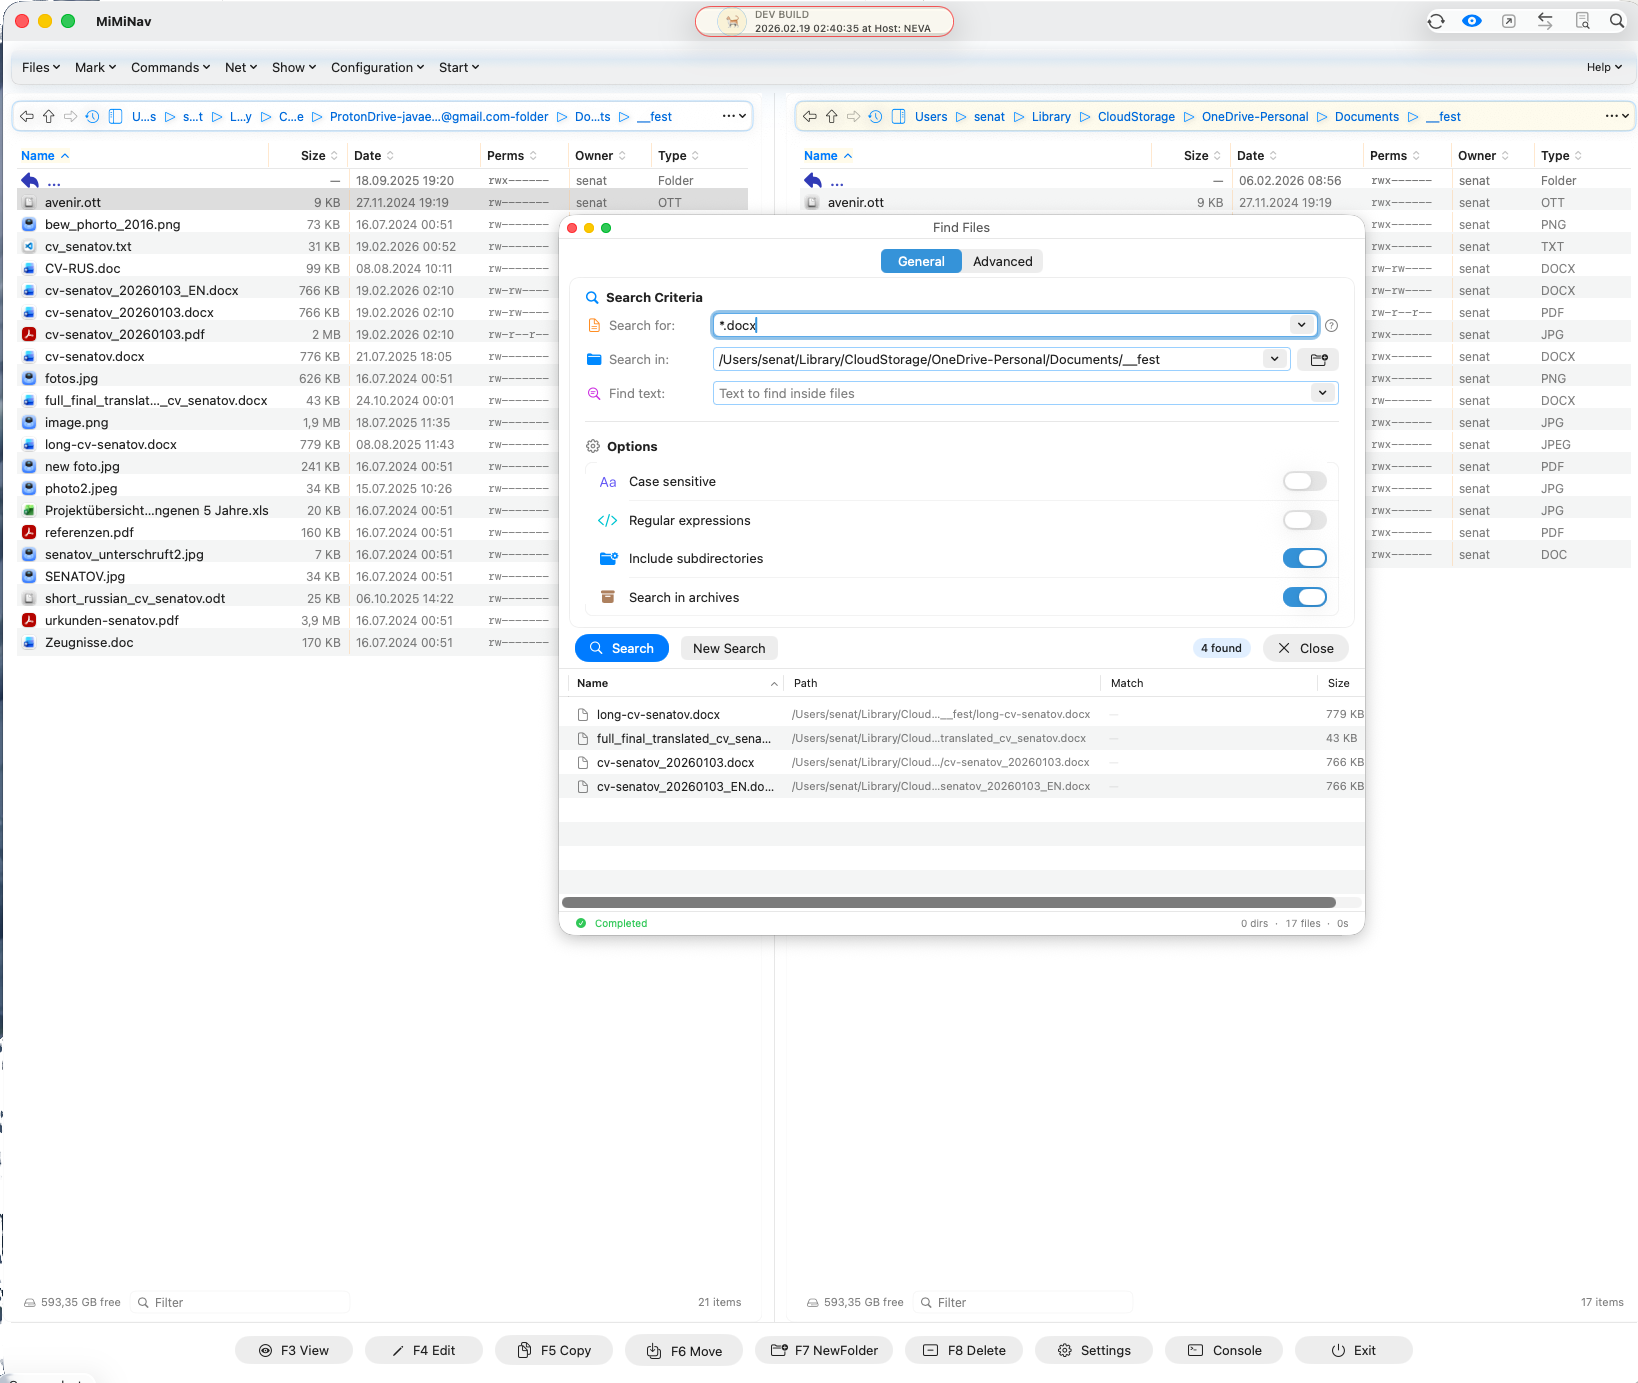
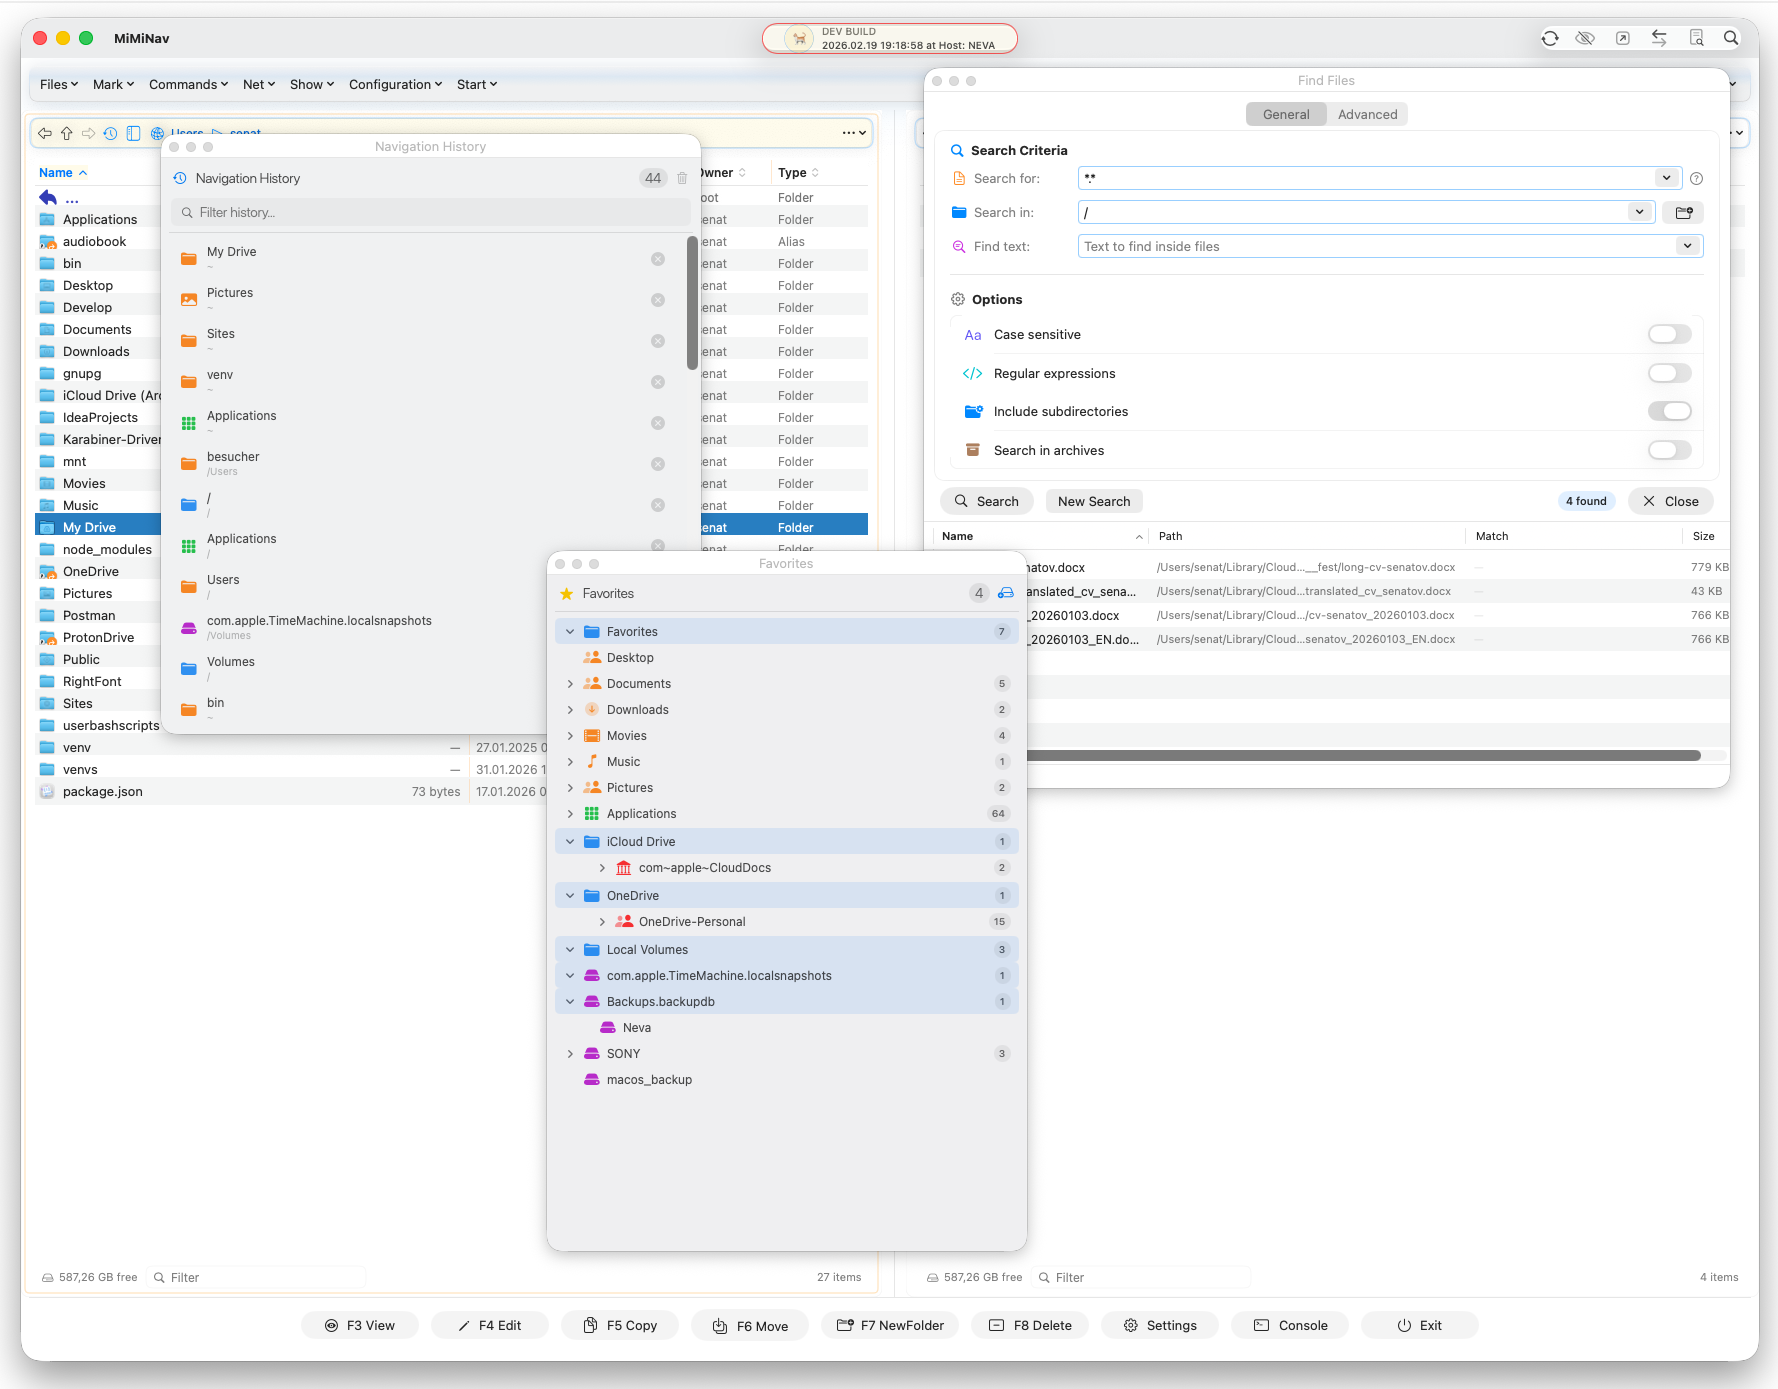
ok

Changed region(s): [[0.0, 0.0, 1.0, 1.0], [0.8718, 0.342, 0.9029, 0.3731]]

diff --git a/GUI/Sources/App/MiMiNavigatorApp.swift b/GUI/Sources/App/MiMiNavigatorApp.swift
@@ -50,6 +50,7 @@ struct MiMiNavigatorApp: App {
                     toolBarOpenWith()
                     toolBarItemSwapPanels()
                     toolBarItemCompare()
+                    toolBarItemNetwork()
                     toolBarItemSearch()
                     toolBarItemBuildInfo()
                 }
@@ -167,6 +168,19 @@ struct MiMiNavigatorApp: App {
                 appState.openSelectedItem()
             }
             .keyboardShortcut("o", modifiers: .command)
+        }
+    }
+
+    // MARK: - Network Neighborhood button
+    fileprivate func toolBarItemNetwork() -> ToolbarItem<(), some View> {
+        return ToolbarItem(placement: .automatic) {
+            ToolbarButton(
+                systemImage: "network",
+                help: "Network Neighborhood"
+            ) {
+                log.debug("Network Neighborhood button clicked")
+                appState.showNetworkNeighborhood = true
+            }
         }
     }
 

diff --git a/README.md b/README.md
@@ -43,24 +43,6 @@ MiMiNavigator is a dual-panel file manager inspired by **Total Commander** and *
 
 ## Screenshots
 
-<table>
-  <tr>
-    <td><img src="GUI/Docs/Preview3.png" alt="Main Interface" width="100%"></td>
-  </tr>
-  <tr>
-    <td align="center"><em>Dual-panel interface with Finder-style table, sortable columns, and glass menu bar</em></td>
-  </tr>
-</table>
-
-
-<table>
-  <tr>
-    <td><img src="GUI/Docs/Preview2.png" alt="Main Interface" width="100%"></td>
-  </tr>
-  <tr>
-    <td align="center"><em>Favorites</em></td>
-  </tr>
-</table>
 
 
 <table>
